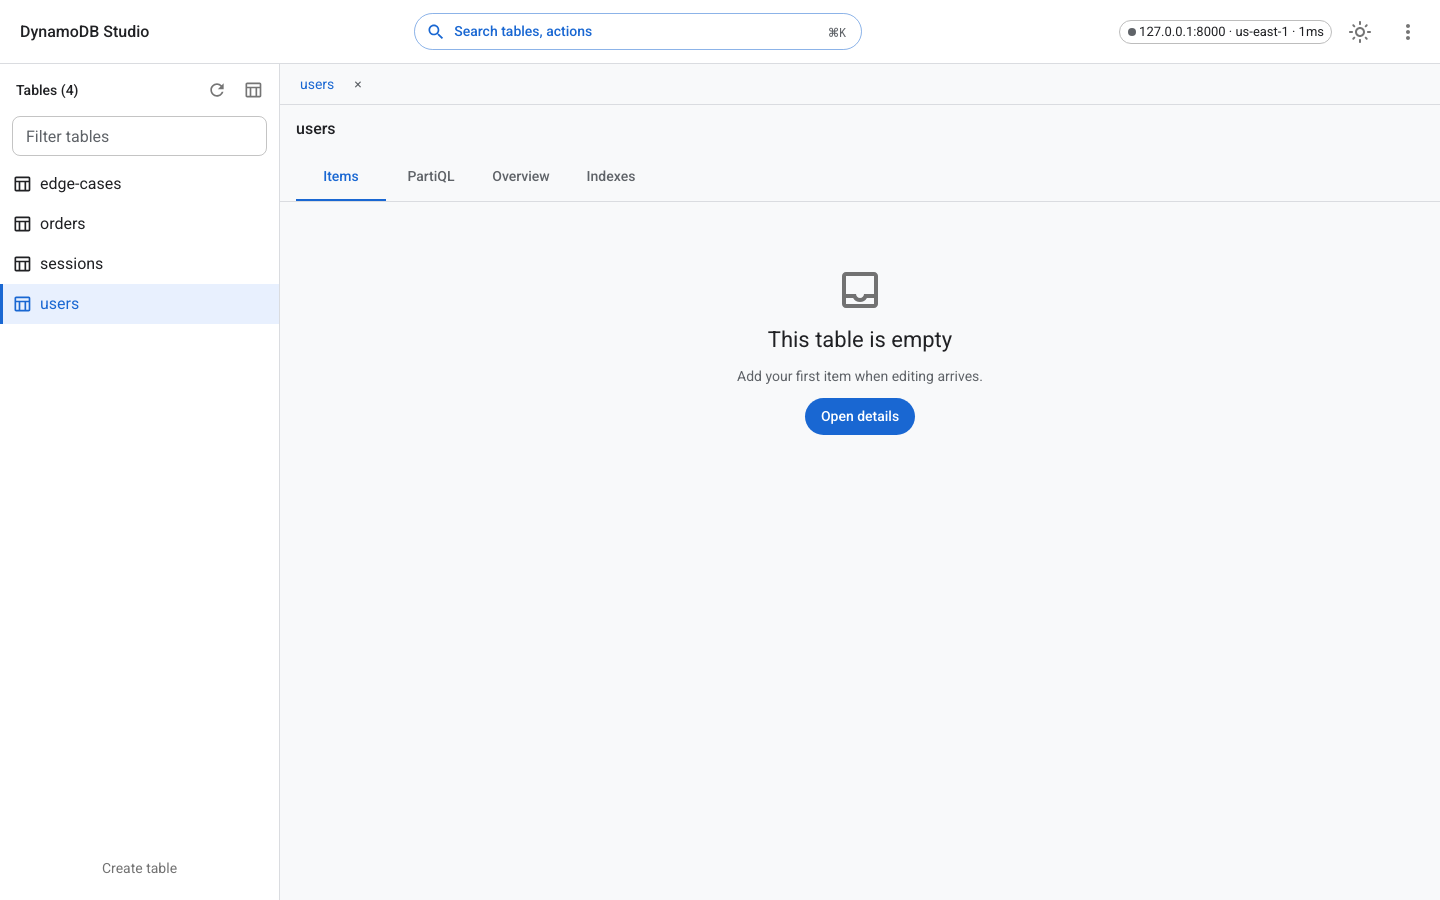
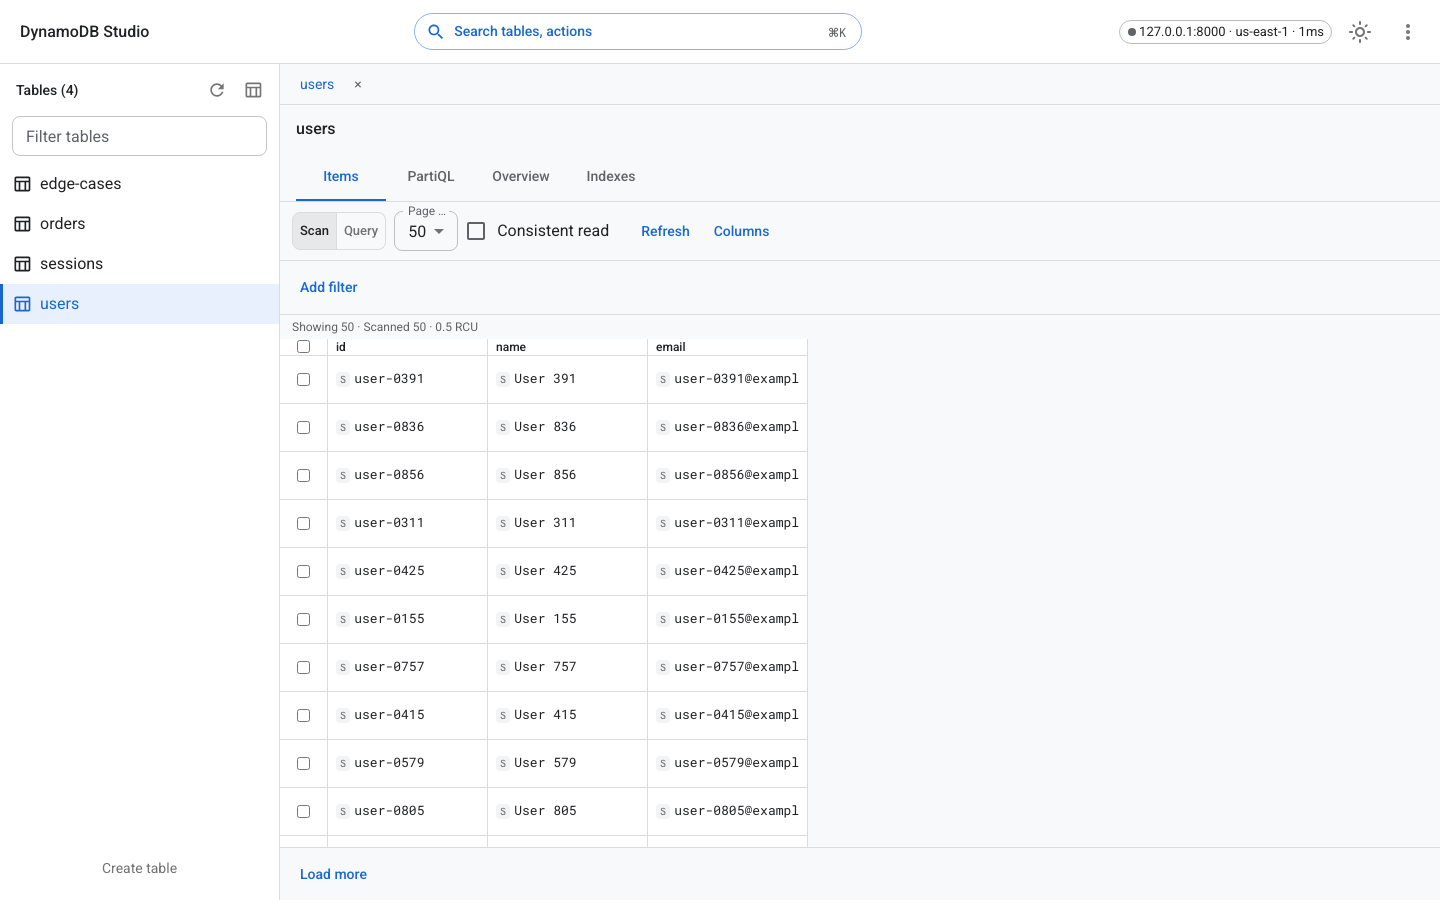
test(web): cover the items browser in the browser
Keyboard open, filters, axe, and the 10,000-row scroll check now run against the seeded tables.

diff --git a/e2e/items.spec.ts b/e2e/items.spec.ts
@@ -1,0 +1,134 @@
+import AxeBuilder from "@axe-core/playwright";
+import { expect, test } from "@playwright/test";
+import { isSerious } from "./axe.js";
+import { openWorkspace } from "./session.js";
+
+const digits = "12345678901234567890123456789012345678";
+
+test("browses orders, filters status, and opens an item from the keyboard", async ({ page }) => {
+  test.setTimeout(120_000);
+  await page.setViewportSize({ width: 1440, height: 900 });
+  await openWorkspace(page, "/t/orders/items");
+  await expect(page.getByText(/Showing \d+ · Scanned/)).toBeVisible();
+  await page.getByRole("button", { name: "Add filter" }).click();
+  await page.getByRole("combobox", { name: "Attribute" }).fill("status");
+  await page.getByRole("textbox", { name: "Value" }).fill("SHIPPED");
+  await page.getByRole("button", { name: "Apply filter" }).click();
+  await expect(
+    page.getByText("Filters run after reading items, so Scan still reads the whole page."),
+  ).toBeVisible();
+  await expect(page.getByRole("gridcell", { name: "PENDING" })).toHaveCount(0);
+  await expect(page.getByRole("gridcell", { name: "SHIPPED" }).first()).toBeVisible();
+
+  await page.getByRole("button", { name: "Columns" }).click();
+  await page.getByRole("checkbox", { name: "Show orderId" }).click();
+  await expect(page.getByRole("columnheader", { name: "orderId" })).toHaveCount(0);
+  await page.keyboard.press("Escape");
+
+  const cell = page
+    .getByRole("grid", { name: "Items" })
+    .getByRole("row")
+    .nth(1)
+    .getByRole("gridcell")
+    .nth(1);
+  await cell.focus();
+  await page.keyboard.press("Enter");
+  await expect(page.getByRole("dialog", { name: "Item details" })).toContainText('"S": "SHIPPED"');
+  await page.keyboard.press("Escape");
+  await expect(page.getByRole("dialog", { name: "Item details" })).toBeHidden();
+
+  await page.getByRole("searchbox", { name: "Filter tables" }).fill("edge");
+  await page.getByRole("option", { name: "edge-cases" }).click();
+  await expect(page.getByRole("heading", { name: "edge-cases" })).toBeVisible();
+  const edgeGrid = page.getByRole("grid", { name: "Items" });
+  await expect(edgeGrid).toBeVisible();
+  await expect
+    .poll(async () => {
+      if (await page.getByText(digits).isVisible()) {
+        return true;
+      }
+      await edgeGrid.evaluate((node) => {
+        node.scrollTop += node.clientHeight;
+      });
+      return false;
+    })
+    .toBe(true);
+  await expect(page.getByRole("gridcell", { name: "Empty string", exact: true })).toBeVisible();
+  await expect(page.getByRole("gridcell", { name: "Null", exact: true })).toBeVisible();
+  await expect(page.getByRole("gridcell", { name: "Missing", exact: true }).first()).toBeVisible();
+});
+
+for (const scheme of ["light", "dark"] as const) {
+  test(`items screenshots and axe in ${scheme}`, async ({ page }) => {
+    test.setTimeout(60_000);
+    await page.addInitScript((value) => {
+      localStorage.setItem("mui-mode", value);
+    }, scheme);
+    await page.emulateMedia({ colorScheme: scheme });
+    await page.setViewportSize({ width: 1440, height: 900 });
+    await openWorkspace(page, "/t/orders/items");
+    await expect(page.getByRole("grid", { name: "Items" })).toBeVisible();
+    await page.screenshot({ path: `docs/screenshots/phase-4/items-${scheme}.png` });
+    const result = await new AxeBuilder({ page }).analyze();
+    expect(result.violations.filter((violation) => isSerious(violation.impact))).toEqual([]);
+
+    await page.setViewportSize({ width: 1280, height: 800 });
+    await page.evaluate(() => {
+      document.documentElement.style.zoom = "2";
+    });
+    await expect(page.getByRole("button", { name: "Add filter" })).toBeVisible();
+    await expect(page.getByRole("grid", { name: "Items" })).toBeVisible();
+  });
+}
+
+test("scrolls 10000 loaded order rows at 4x cpu", async ({ page }) => {
+  test.setTimeout(180_000);
+  await page.setViewportSize({ width: 1440, height: 900 });
+  await openWorkspace(page, "/t/orders/items");
+  await page.getByRole("combobox", { name: "Page size" }).click();
+  await page.getByRole("option", { name: "500", exact: true }).click();
+  await expect
+    .poll(async () => {
+      const text = await page.locator("p", { hasText: /^Showing / }).innerText();
+      return Number(/^Showing (\d+)/.exec(text)?.[1] ?? "0");
+    })
+    .toBeGreaterThanOrEqual(500);
+  for (let step = 0; step < 25; step += 1) {
+    const summary = page.locator("p", { hasText: /^Showing / });
+    const before = await summary.innerText();
+    if (before.startsWith("Showing 10000")) {
+      break;
+    }
+    await page.getByRole("button", { name: "Load more" }).click({ timeout: 15_000 });
+    await expect(summary).not.toHaveText(before, { timeout: 30_000 });
+  }
+  await expect(page.getByText(/Showing 10000 ·/)).toBeVisible();
+  const client = await page.context().newCDPSession(page);
+  await client.send("Emulation.setCPUThrottlingRate", { rate: 4 });
+  const fps = await page.evaluate(async () => {
+    const grid = document.querySelector("[aria-label='Items']");
+    if (!(grid instanceof HTMLElement)) {
+      throw new Error("missing items grid");
+    }
+    let frames = 0;
+    const started = performance.now();
+    await new Promise<void>((resolve) => {
+      const tick = (now: number) => {
+        frames += 1;
+        grid.scrollTop += 96;
+        if (now - started >= 2000) {
+          resolve();
+        } else {
+          requestAnimationFrame(tick);
+        }
+      };
+      requestAnimationFrame(tick);
+    });
+    return frames / ((performance.now() - started) / 1000);
+  });
+  test.info().annotations.push({
+    type: "fps",
+    description: `${fps.toFixed(1)} fps; browser Chromium; throttle 4x; method requestAnimationFrame scrolling the items grid by 96px on the Vite dev server`,
+  });
+  expect(fps).toBeGreaterThanOrEqual(55);
+});

diff --git a/e2e/shell.spec.ts b/e2e/shell.spec.ts
@@ -18,7 +18,12 @@ test("keyboard can use the palette, sidebar, drawer, and shortcuts", async ({ pa
   await page.keyboard.press("Tab");
   await expect(page.getByRole("listbox", { name: "Table names" })).toBeFocused();
 
-  const open = page.getByRole("button", { name: "Open details" });
+  const open = page
+    .getByRole("grid", { name: "Items" })
+    .getByRole("row")
+    .nth(1)
+    .getByRole("gridcell")
+    .nth(1);
   await open.focus();
   await page.keyboard.press("Enter");
   await expect(page.getByRole("dialog", { name: "Item details" })).toBeVisible();
@@ -100,7 +105,13 @@ async function shootShell(page: Page, scheme: "light" | "dark") {
   await page.screenshot({ path: `docs/screenshots/phase-1/shell-${scheme}.png` });
   await expectNoSeriousAxe(page);
 
-  await page.getByRole("button", { name: "Open details" }).click();
+  await page
+    .getByRole("grid", { name: "Items" })
+    .getByRole("row")
+    .nth(1)
+    .getByRole("gridcell")
+    .nth(1)
+    .click();
   await expect(page.getByRole("dialog", { name: "Item details" })).toBeVisible();
   await page.screenshot({ path: `docs/screenshots/phase-1/shell-drawer-${scheme}.png` });
 

diff --git a/docs/a11y-notes.md b/docs/a11y-notes.md
@@ -1,0 +1,12 @@
+# Screen reader notes
+
+Checked with the accessibility tree in Playwright (roles and names), not a live screen reader.
+
+## Items grid
+
+- The grid is `role="grid"` with name "Items". `aria-rowcount` includes the header. `aria-colcount` includes the selection column.
+- The header row is sticky. Each data column is a `columnheader`. The name is the attribute. Sorting is a button inside that header, and the button name is the attribute.
+- The first column is selection. "Select all loaded items" and "Select row N" are checkboxes.
+- A data cell's name is its visible text, including the type letter (for example "S SHIPPED"). Missing, Null, and Empty string cells use those words as the accessible name so they stay distinct from an id whose text is "null".
+- Arrow keys move inside the grid. Enter opens the item. Escape clears the selection, and a second Escape (from the drawer hotkey) closes Item details and returns focus to the cell that opened it.
+- "N items loaded" is a status live region. "Refreshing items" is the progress bar name while a page is loading.
